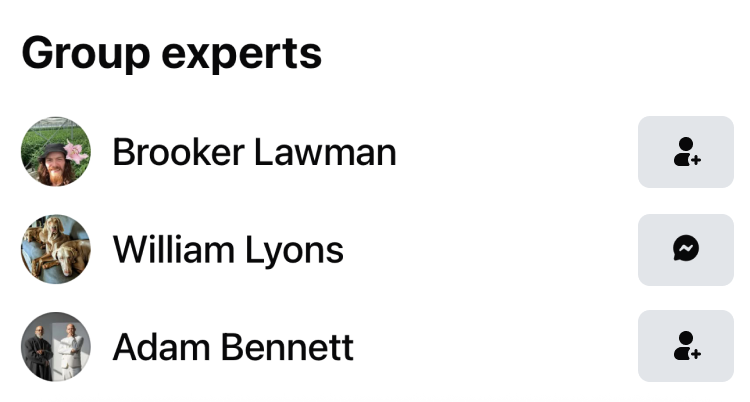
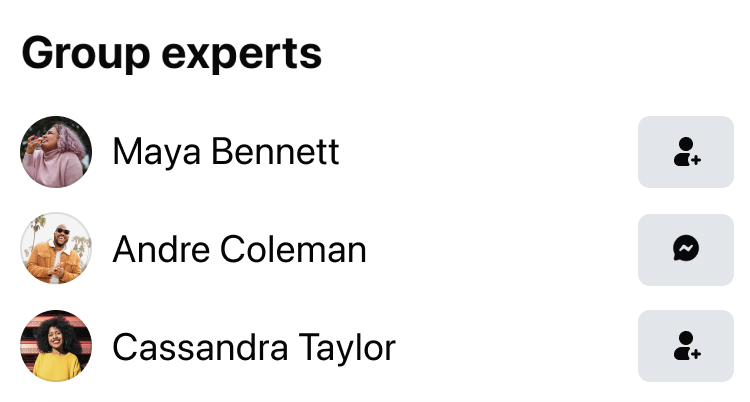
Collage: updated Group experts card

diff --git a/work/facebook-messaging-draft.html b/work/facebook-messaging-draft.html
@@ -185,7 +185,7 @@
             <div class="project-bento-media project-entry-collage" role="group" aria-label="Six places in Facebook where someone can start a message">
               <div class="entry-col entry-col--1">
               <img class="entry-card entry-card--story" src="../images/messaging-entry-story.webp?v=2" width="754" height="1486" alt="A Facebook story with a &ldquo;Send message&hellip;&rdquo; field and reaction buttons along the bottom." loading="lazy" />
-              <img class="entry-card entry-card--experts" src="../images/messaging-entry-experts.png" width="750" height="402" alt="A Group experts list with a Messenger button beside William Lyons." loading="lazy" />
+              <img class="entry-card entry-card--experts" src="../images/messaging-entry-experts.png?v=2" width="750" height="402" alt="A Group experts list: Maya Bennett with an add-friend button, Andre Coleman with a Messenger button and Cassandra Taylor with an add-friend button." loading="lazy" />
               </div>
               <div class="entry-col entry-col--3">
               <img class="entry-card entry-card--sharesheet" src="../images/messaging-entry-sharesheet.png?v=2" width="750" height="592" alt="The share sheet&rsquo;s Send in Messenger panel: a row of recipients with Cassandra Taylor selected, a message field and a blue Send button." loading="lazy" />
